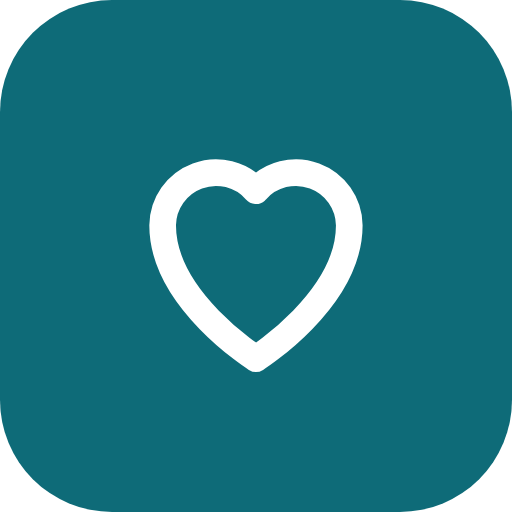
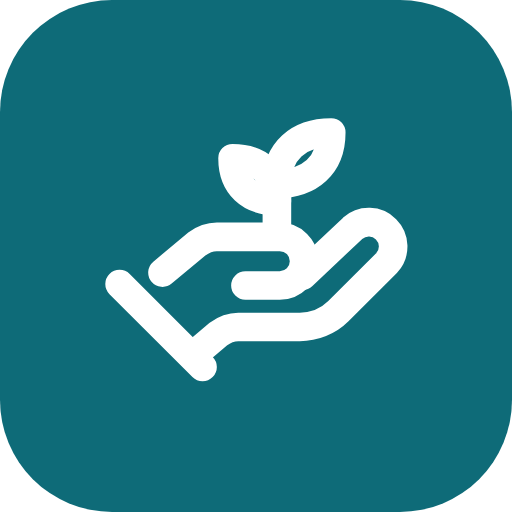
Cambia el ícono de Andar por una mano que ofrece un brote
El corazón se asociaba más con cardiología. El nuevo ícono transmite
cuidado, acompañamiento y algo que crece. Se usa en el encabezado, en
la pestaña del navegador y en los íconos de la app instalada.

Changed region(s): [[0.1875, 0.2188, 0.8125, 0.75]]

diff --git a/index.html b/index.html
@@ -279,7 +279,7 @@ var NOMBRE = { verde: 'Verde', amarillo: 'Amarillo', rojo: 'Rojo' };
 var NIVEL_DESC = { rojo: ['Urgente', 'Contactar lo antes posible'], amarillo: ['Atención', 'Ofrecer una consulta pronto'], verde: ['Sin alarma', 'Seguimiento habitual'] };
 // Versión publicada: se muestra al pie del inicio para saber si el celular ya tiene la última.
 // Tiene que ser igual a VERSION en sw.js (lo controla tests/version.test.js). Subir las dos en cada publicación.
-var VERSION_APP = 'andar-v18', VERSION_FECHA = '18/11/2026';
+var VERSION_APP = 'andar-v19', VERSION_FECHA = '18/11/2026';
 var KEY = 'misalud.comoestoy.casos';
 
 var S = { view: 'home', i: 0, phq: [], gad: [], consent: false, alias: '', localidad: '', edad: '', genero: '', contacto: false, tel: '', result: null, filtro: 'pendientes', tab: 'casos', loc: '', metric: 'malestar', ctx: {}, ci: 0, chat: [], busy: false, typed: false, ai: { busy:false, text:'', q:'', err:'' }, casos: [] };
@@ -499,7 +499,8 @@ function mapaHTML(){
 }
 
 var ICO = {
-  heart:'<svg class="ico" viewBox="0 0 24 24" fill="none" stroke="currentColor" stroke-width="2" stroke-linecap="round" stroke-linejoin="round" aria-hidden="true"><path d="M12 20s-7-4.4-7-10a4 4 0 0 1 7-2.6A4 4 0 0 1 19 10c0 5.6-7 10-7 10z"/></svg>',
+  // Logo de Andar: una mano que ofrece un brote (cuidado, acompañamiento y algo que crece). Mismo dibujo que icons/icon.svg.
+  logo:'<svg class="ico" viewBox="0 0 24 24" fill="none" stroke="currentColor" stroke-width="2" stroke-linecap="round" stroke-linejoin="round" aria-hidden="true"><path d="M2 14.2l5.8 5.8"/><path d="M5 13.4l2.4-2c.4-.3.9-.5 1.4-.5h4.4a1.7 1.7 0 0 1 0 3.4H10.8"/><path d="M7.6 18.8l1.3-1.1c.4-.3.9-.5 1.4-.5h4.3c1 0 2-.4 2.7-1.1l3.4-3.4a1.7 1.7 0 0 0-2.4-2.4l-3.5 3.3"/><path d="M13 10V6.4"/><path d="M13 7.2c0-2.3 1.5-3.6 3.8-3.6 0 2.3-1.5 3.6-3.8 3.6z"/><path d="M13 8.4c0-1.9-1.2-3-3.1-3 0 1.9 1.2 3 3.1 3z"/></svg>',
   face:'<svg class="ico" viewBox="0 0 24 24" fill="none" stroke="currentColor" stroke-width="2" stroke-linecap="round" aria-hidden="true"><circle cx="12" cy="12" r="9"/><path d="M8.5 14.5c1 1.2 2.2 1.8 3.5 1.8s2.5-.6 3.5-1.8M9 10h.01M15 10h.01"/></svg>',
   cal:'<svg class="ico" viewBox="0 0 24 24" fill="none" stroke="currentColor" stroke-width="2" stroke-linecap="round" aria-hidden="true"><rect x="4" y="5" width="16" height="15" rx="2"/><path d="M4 10h16M9 3v4M15 3v4"/></svg>',
   doc:'<svg class="ico" viewBox="0 0 24 24" fill="none" stroke="currentColor" stroke-width="2" stroke-linecap="round" stroke-linejoin="round" aria-hidden="true"><path d="M7 3h7l4 4v14H7z"/><path d="M14 3v4h4M10 13h5M10 17h5"/></svg>',
@@ -593,7 +594,7 @@ function fundamentosHTML(){
 
 var LEMA = 'Tu salud mental es importante'; // se muestra debajo de "Andar" en el inicio
 function header(back, title){
-  return '<div class="row between"><div class="brand"><div class="logo">' + ICO.heart + '</div><div><strong>' + esc(title || 'Andar') + '</strong>' + (!back && !title ? '<div class="lema">' + LEMA + '</div>' : '') + '</div></div>' +
+  return '<div class="row between"><div class="brand"><div class="logo">' + ICO.logo + '</div><div><strong>' + esc(title || 'Andar') + '</strong>' + (!back && !title ? '<div class="lema">' + LEMA + '</div>' : '') + '</div></div>' +
     '<div class="row hdr-acc"><button class="aa" data-a="letra" aria-pressed="' + (LETRA_GRANDE ? 'true' : 'false') + '" aria-label="' + (LETRA_GRANDE ? 'Volver a la letra normal' : 'Agrandar la letra') + '" title="Tamaño de letra">A<span>A</span></button>' +
     (back ? '<button class="link" data-a="home">Inicio</button>' : '') + '</div></div>';
 }

diff --git a/sw.js b/sw.js
@@ -5,7 +5,7 @@
 // Así los celulares que ya la tienen instalada bajan la versión nueva.
 // Tiene que coincidir con VERSION_APP en index.html, que es la que se ve al pie del inicio.
 
-const VERSION = "andar-v18";
+const VERSION = "andar-v19";
 
 const ARCHIVOS = [
   "./",
